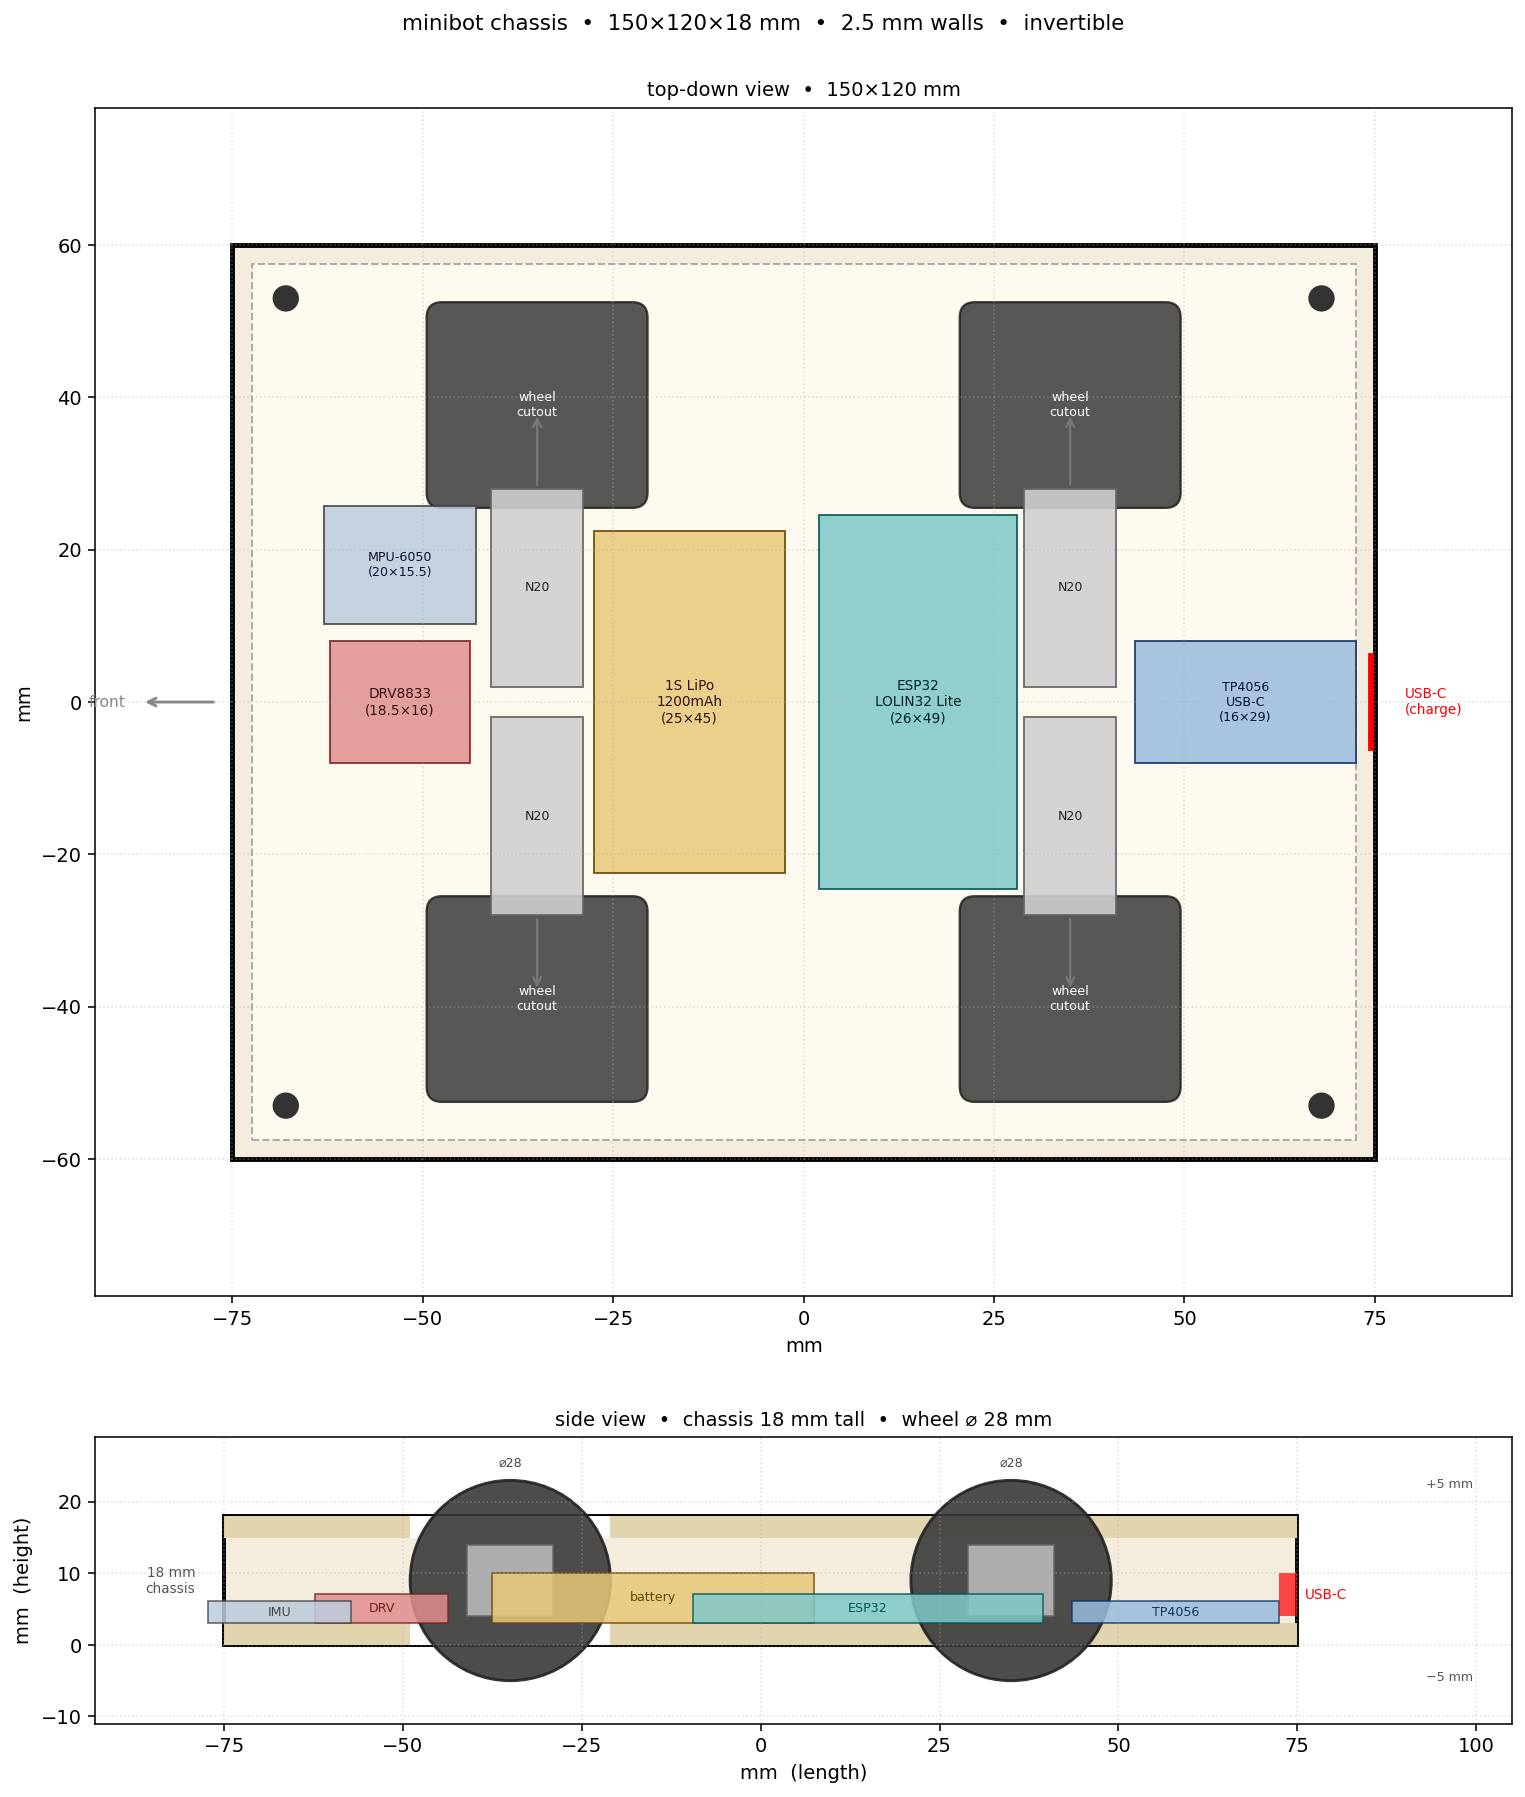
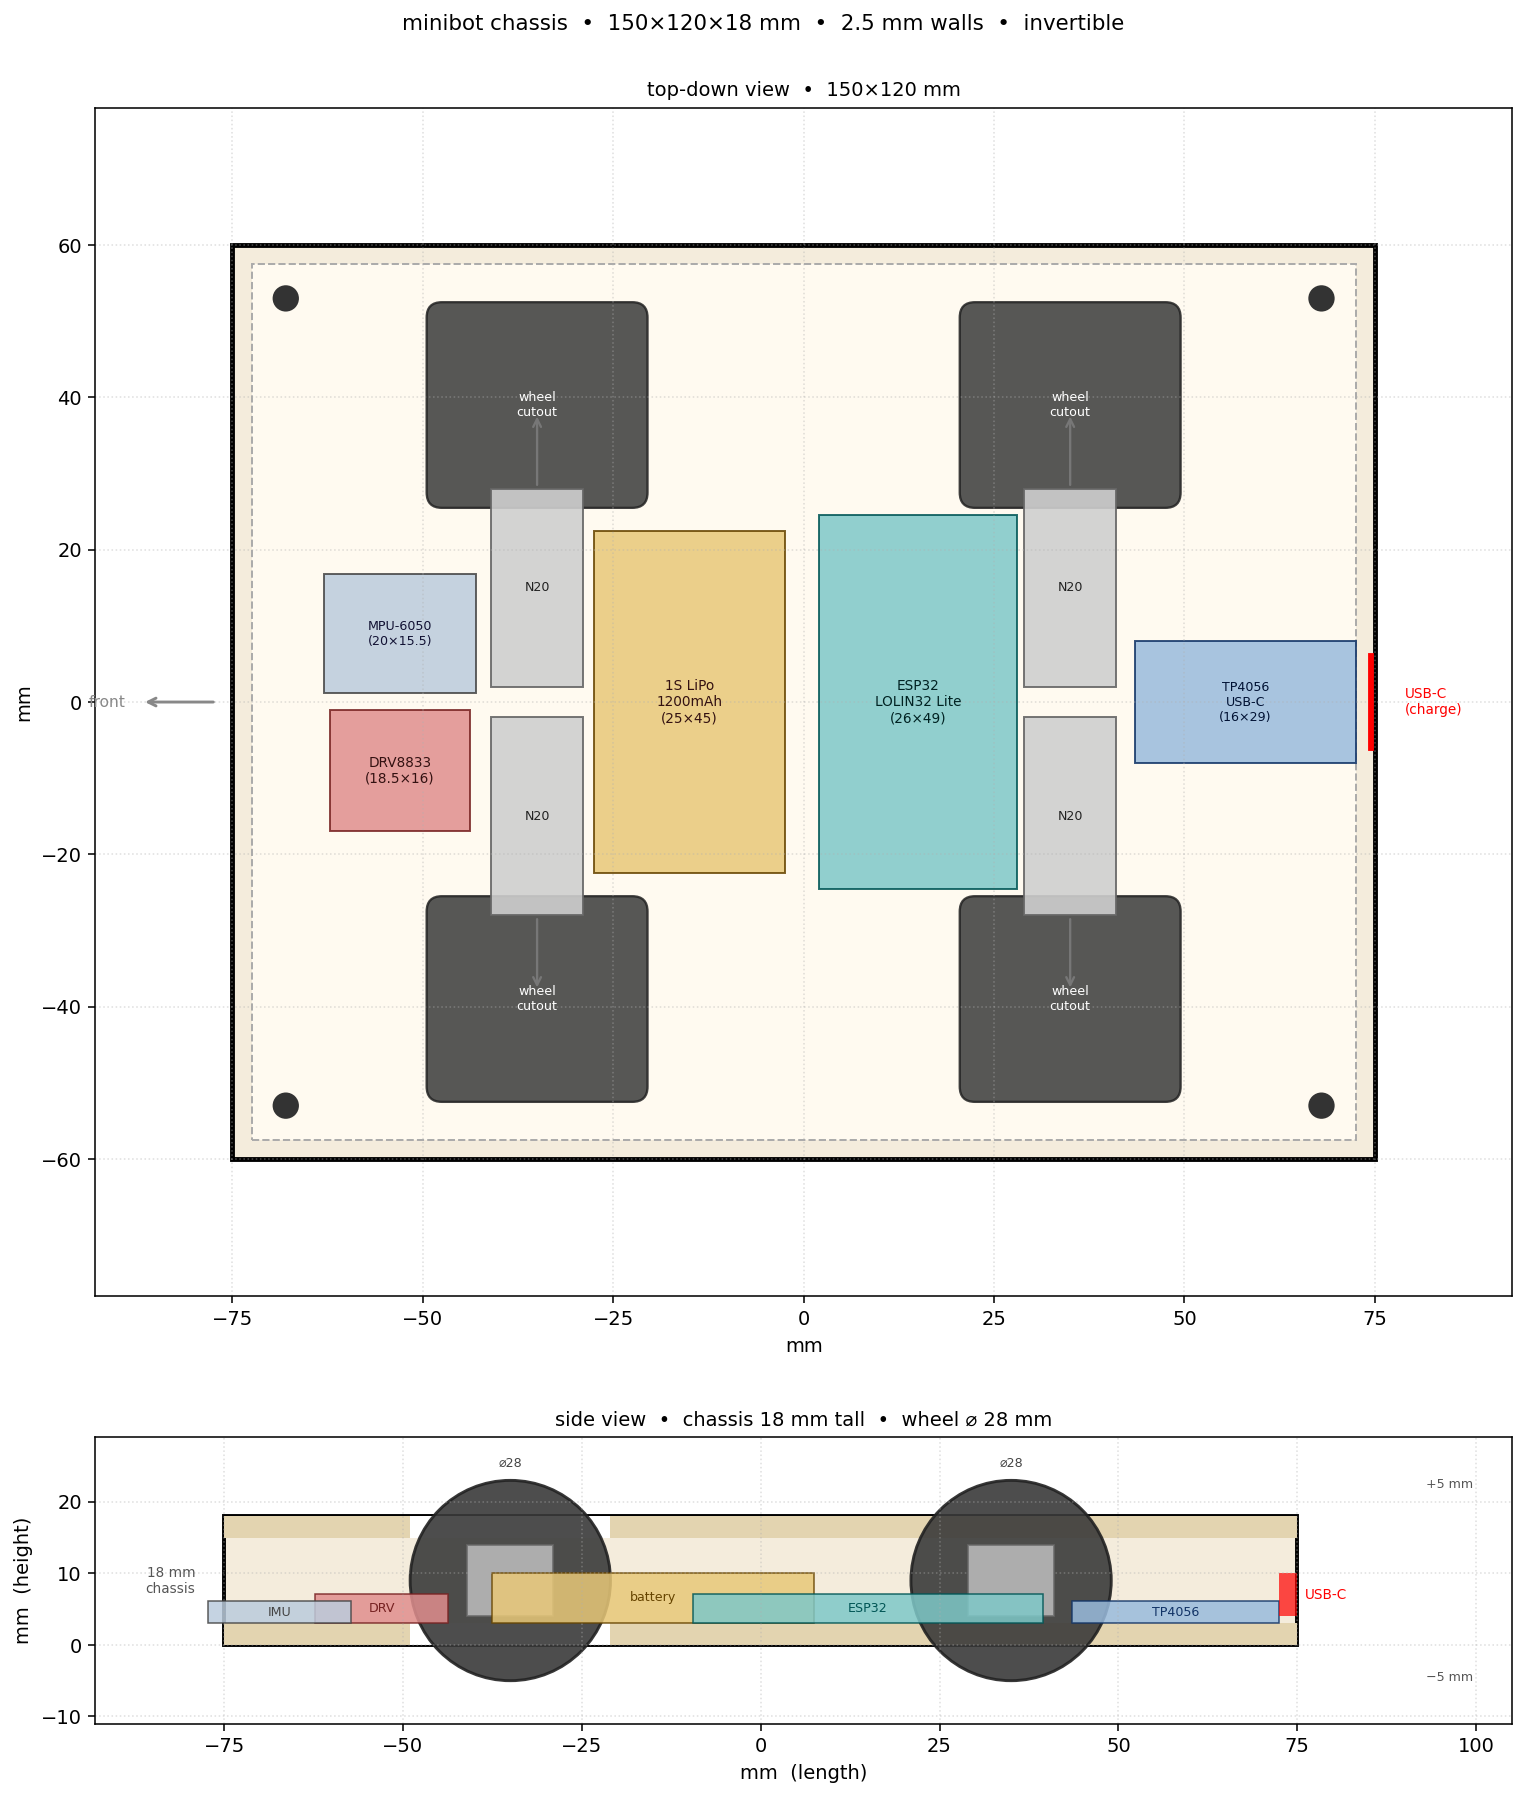
fix(cad): centre the DRV8833 + MPU pair symmetrically around y=0 in front of the motors

Changed region(s): [[0.1849, 0.2805, 0.339, 0.4674]]

diff --git a/docs/cad/layout.py b/docs/cad/layout.py
@@ -62,9 +62,11 @@ wheel_positions = [
     ( motor_axle_pitch / 2, -wheel_center_y),
 ]
 
-# Component centre positions in the top-down view
-drv_x = -53
-imu_pos_x, imu_pos_y = -53, 18        # next to DRV8833 in the front strip
+# Component centre positions in the top-down view.
+# DRV8833 + MPU-6050 share x = -53 and are stacked symmetrically around
+# y = 0 so the pair sits centred in front of the motors.
+drv_x, drv_y = -53, -9
+imu_pos_x, imu_pos_y = -53, +9
 esp_x = 15
 bat_x = -15
 tp_x, tp_y = 58, 0
@@ -111,11 +113,11 @@ def draw_top(ax) -> None:
 
     # DRV8833
     ax.add_patch(patches.Rectangle(
-        (drv_x - driver_length / 2, -driver_width / 2),
+        (drv_x - driver_length / 2, drv_y - driver_width / 2),
         driver_length, driver_width,
         linewidth=1, edgecolor="#722", facecolor="#e08e8e", alpha=0.85,
     ))
-    ax.text(drv_x, 0, f"DRV8833\n({driver_length}×{driver_width})",
+    ax.text(drv_x, drv_y, f"DRV8833\n({driver_length}×{driver_width})",
             ha="center", va="center", fontsize=7, color="#311")
 
     # MPU-6050 next to DRV8833 (above it in Y)
